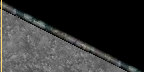
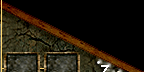
new B4-skin

diff --git a/client/src/interface.c b/client/src/interface.c
@@ -1469,7 +1469,7 @@ void show_interface_npc(int mark)
     int x=gui_interface_npc->startx, y=gui_interface_npc->starty, numButton=0,yoff, i;
 
     sprite_blt(Bitmaps[BITMAP_NPC_INTERFACE], x, y, NULL, NULL);
-    add_close_button(x-113, y+4, MENU_NPC);
+    add_close_button(x-111, y+9, MENU_NPC);
 
     if (gui_interface_npc->used_flag&GUI_INTERFACE_HEAD)
     {
@@ -1477,14 +1477,14 @@ void show_interface_npc(int mark)
         /*sprintf(xxbuf, "%s (%d,%d)", keyword?keyword:"--", mx, my);
         StringBlt(ScreenSurface,&MediumFont , xxbuf, x+75, y+48, COLOR_WHITE, NULL, NULL);
         */
-        StringBlt(ScreenSurface,&MediumFont , gui_interface_npc->head.body_text, x+75, y+48, COLOR_WHITE, NULL, NULL);
+        StringBlt(ScreenSurface,&MediumFont , gui_interface_npc->head.body_text, x+80, y+50, COLOR_WHITE, NULL, NULL);
 
         if (gui_interface_npc->head.face>=0 && FaceList[gui_interface_npc->head.face].sprite != NULL)
         {
             int xp, yp;
 
-            box.x=x+4;
-            box.y=y+4;
+            box.x=x+8;
+            box.y=y+8;
             box.w=54;
             box.h=54;
 
@@ -1520,7 +1520,7 @@ void show_interface_npc(int mark)
     box.h=INTERFACE_WINLEN_NPC;
 
     blt_window_slider(Bitmaps[BITMAP_NPC_INT_SLIDER], gui_interface_npc->win_length, INTERFACE_WINLEN_NPC,
-                      gui_interface_npc->yoff*-1, -1, x + 340, y + 90);
+                      gui_interface_npc->yoff*-1, -1, x + 345, y + 94);
 
     SDL_SetClipRect(ScreenSurface, &box);
     /*SDL_FillRect(ScreenSurface, &box, 3);*/
@@ -1793,7 +1793,7 @@ void show_interface_npc(int mark)
     if (gui_interface_npc->used_flag&GUI_INTERFACE_ACCEPT)
     {
 
-        if (add_button(x + 35, y + 443, numButton++, BITMAP_DIALOG_BUTTON_UP,
+        if (add_button(x + 35, y + 448, numButton++, BITMAP_DIALOG_BUTTON_UP,
                        gui_interface_npc->accept.title, gui_interface_npc->accept.title2))
         {
             int ekey=-1;
@@ -1895,7 +1895,7 @@ void show_interface_npc(int mark)
 
         if (gui_interface_npc->used_flag&GUI_INTERFACE_DECLINE)
         {
-            if (add_button(x + 285, y + 443, numButton++, BITMAP_DIALOG_BUTTON_UP,
+            if (add_button(x + 285, y + 448, numButton++, BITMAP_DIALOG_BUTTON_UP,
                            gui_interface_npc->decline.title, gui_interface_npc->decline.title2))
             {
                 int ekey=-1;
@@ -1992,18 +1992,18 @@ void show_interface_npc(int mark)
     if (gui_interface_npc->who.body[0] != 'Q')
     {
         box.x = x + 95;
-        box.y = y+449;
+        box.y = y+453;
         box.h = 12;
         box.w = 180;
         if (gui_interface_npc->input_flag)
         {
-            StringBlt(ScreenSurface, &SystemFont, "~Return~ to send, ~ESC~ to cancel", x+130, y+437, COLOR_WHITE, NULL, NULL);
+            StringBlt(ScreenSurface, &SystemFont, "~Return~ to send, ~ESC~ to cancel", x+119, y+441, COLOR_WHITE, NULL, NULL);
             SDL_FillRect(ScreenSurface, &box, 0);
             StringBlt(ScreenSurface, &MediumFont, show_input_string(InputString, &MediumFont,box.w-10),box.x+5 ,box.y, COLOR_WHITE, NULL, NULL);
         }
         else
         {
-            StringBlt(ScreenSurface, &SystemFont, "~Return~ to talk", x+155, y+437, COLOR_WHITE, NULL, NULL);
+            StringBlt(ScreenSurface, &SystemFont, "~Return~ to talk", x+155, y+441, COLOR_WHITE, NULL, NULL);
 
             if (gui_interface_npc->link_selected)
             {
@@ -2076,14 +2076,14 @@ void gui_interface_mouse(SDL_Event *e)
     mx = mxr-gui_interface_npc->startx;
     my = myr-gui_interface_npc->starty;
 
-    if (mx >= 345 && mx <= 354 && my >=32 && my <= 41) // close button
+    if (mx >= 349 && mx <= 358 && my >=36 && my <= 45) // close button
     {
         sound_play_effect(SOUND_SCROLL, 0, 0, 100);
         reset_gui_interface();
     }
-    else if (mx >= 339 && mx <= 350) // scroll buttons
+    else if (mx >= 344 && mx <= 355) // scroll buttons
     {
-        if (my >=73 && my <= 84) // scroll up
+        if (my >=79 && my <= 90) // scroll up
         {
             gui_interface_npc->yoff +=12;
             if (gui_interface_npc->yoff < INTERFACE_WINLEN_NPC-gui_interface_npc->win_length)
@@ -2095,7 +2095,7 @@ void gui_interface_mouse(SDL_Event *e)
                 gui_interface_npc->yoff=0;
             }
         }
-        else if (my >=428 && my <= 437) // scroll down
+        else if (my >=432 && my <= 441) // scroll down
         {
             gui_interface_npc->yoff -=12;
             if (gui_interface_npc->yoff < INTERFACE_WINLEN_NPC-gui_interface_npc->win_length)
@@ -2109,7 +2109,7 @@ void gui_interface_mouse(SDL_Event *e)
         }
         return;
     }
-    else if (mx >= 95 && mx <= 275 && my >= 449 && my <= 461) // textfield
+    else if (mx >= 95 && mx <= 275 && my >= 453 && my <= 465) // textfield
     {
         if (!gui_interface_npc->input_flag)
             check_menu_keys(MENU_NPC, SDLK_RETURN);

diff --git a/client/src/dialog.c b/client/src/dialog.c
@@ -251,17 +251,14 @@ char * get_value(void *value, int type)
 void add_close_button(int x, int y, int menu)
 {
     int mx, my, mb;
-
     mb = SDL_GetMouseState(&mx, &my) & SDL_BUTTON(SDL_BUTTON_LEFT);
-    StringBlt(ScreenSurface, &SystemFont, "X", x + 463, y + 28, COLOR_BLACK, NULL, NULL);
-    if (mx > x + 459 && mx <x + 469 && my> y + 27 && my < y + 39)
+    if (mx > x + 460 && mx <x + 474 && my> y + 26 && my < y + 40)
     {
-        StringBlt(ScreenSurface, &SystemFont, "X", x + 462, y + 27, COLOR_HGOLD, NULL, NULL);
+        sprite_blt(Bitmaps[BITMAP_CLOSEBUTTON], x+463, y+28, NULL,NULL);
         if (mb && mb_clicked)
             check_menu_keys(menu, SDLK_ESCAPE);
     }
-    else
-        StringBlt(ScreenSurface, &SystemFont, "X", x + 462, y + 27, COLOR_WHITE, NULL, NULL);
+
 }
 
 /******************************************************************
@@ -419,7 +416,7 @@ int add_rangebox(int x, int y, int id, int text_w, int text_x, char *text, int c
     box.y = y + 1;
     box.w = text_w + 2;
     box.h = 16;
-    SDL_FillRect(ScreenSurface, &box, sdl_gray1);
+    SDL_FillRect(ScreenSurface, &box, 0);
     StringBlt(ScreenSurface, &SystemFont, text, text_x + 1, y + 3, COLOR_BLACK, NULL, NULL);
     StringBlt(ScreenSurface, &SystemFont, text, text_x, y + 2, color, NULL, NULL);
 
@@ -808,9 +805,9 @@ void show_skilllist(void)
         if (i != skill_list_set.entry_nr)
         {
             if (i & 1)
-                SDL_FillRect(ScreenSurface, &box, sdl_gray2);
+                SDL_FillRect(ScreenSurface, &box, SDL_MapRGB(ScreenSurface->format, 67, 57, 30));
             else
-                SDL_FillRect(ScreenSurface, &box, sdl_gray1);
+                SDL_FillRect(ScreenSurface, &box, SDL_MapRGB(ScreenSurface->format, 57, 59, 39));
         }
         else
             SDL_FillRect(ScreenSurface, &box, sdl_blue1);
@@ -966,9 +963,9 @@ void show_spelllist(void)
         if (i != spell_list_set.entry_nr)
         {
             if (i & 1)
-                SDL_FillRect(ScreenSurface, &box, sdl_gray2);
+                SDL_FillRect(ScreenSurface, &box, SDL_MapRGB(ScreenSurface->format, 67, 57, 30));
             else
-                SDL_FillRect(ScreenSurface, &box, sdl_gray1);
+                SDL_FillRect(ScreenSurface, &box, SDL_MapRGB(ScreenSurface->format, 57, 59, 39));
         }
         else
             SDL_FillRect(ScreenSurface, &box, sdl_blue1);
@@ -1159,9 +1156,9 @@ void show_keybind()
         if (i != bindkey_list_set.entry_nr)
         {
             if (i & 1)
-                SDL_FillRect(ScreenSurface, &box, sdl_gray2);
+                SDL_FillRect(ScreenSurface, &box, SDL_MapRGB(ScreenSurface->format, 67, 57, 30));
             else
-                SDL_FillRect(ScreenSurface, &box, sdl_gray1);
+                SDL_FillRect(ScreenSurface, &box, SDL_MapRGB(ScreenSurface->format, 57, 59, 39));
         }
         else
             SDL_FillRect(ScreenSurface, &box, sdl_blue1);
@@ -1573,10 +1570,10 @@ void show_login_server(void)
     StringBlt(ScreenSurface, &BigFont, buf, t + 1, y - 21, COLOR_BLACK, NULL, NULL);
     StringBlt(ScreenSurface, &BigFont, buf, t, y - 22, COLOR_HGOLD, NULL, NULL);
 
-    SDL_FillRect(ScreenSurface, &box, sdl_gray3);
+    SDL_FillRect(ScreenSurface, &box, SDL_MapRGB(ScreenSurface->format, 67, 57, 30));
     box.y = y + 15;
     box.h = 150;
-    SDL_FillRect(ScreenSurface, &box, sdl_gray4);
+    SDL_FillRect(ScreenSurface, &box, SDL_MapRGB(ScreenSurface->format, 57, 59, 39));
     StringBlt(ScreenSurface, &SystemFont, "- UPDATING FILES- ", x + 58, y + 1, COLOR_BLACK, NULL, NULL);
     StringBlt(ScreenSurface, &SystemFont, "- UPDATING FILES -", x + 57, y, COLOR_WHITE, NULL, NULL);
     if (request_file_chain >= 0)
@@ -1879,9 +1876,9 @@ void show_meta_server(_server *node, int metaserver_start, int metaserver_sel)
     {
         box.y += 12;
         if (i & 1)
-            SDL_FillRect(ScreenSurface, &box, sdl_gray2);
+            SDL_FillRect(ScreenSurface, &box, SDL_MapRGB(ScreenSurface->format, 67, 57, 30));
         else
-            SDL_FillRect(ScreenSurface, &box, sdl_gray1);
+            SDL_FillRect(ScreenSurface, &box, SDL_MapRGB(ScreenSurface->format, 57, 59, 39));
     }
 
     for (i = 0; node && i < metaserver_start; i++)

diff --git a/client/src/main.c b/client/src/main.c
@@ -143,7 +143,7 @@ static _bitmap_name bitmap_name[BITMAP_INIT]    =
         {"food_back.png", PIC_TYPE_DEFAULT}, {"apply.png", PIC_TYPE_DEFAULT},
         {"food2.png", PIC_TYPE_TRANS},
         {"unpaid.png", PIC_TYPE_DEFAULT}, {"cursed.png", PIC_TYPE_DEFAULT}, {"damned.png", PIC_TYPE_DEFAULT},
-        {"lock.png", PIC_TYPE_DEFAULT}, {"magic.png", PIC_TYPE_DEFAULT}, {"range.png", PIC_TYPE_TRANS},
+        {"lock.png", PIC_TYPE_DEFAULT}, {"magic.png", PIC_TYPE_DEFAULT},
         {"range_marker.png", PIC_TYPE_TRANS}, {"range_ctrl.png", PIC_TYPE_TRANS}, {"range_ctrl_no.png", PIC_TYPE_TRANS},
         {"range_skill.png", PIC_TYPE_TRANS}, {"range_skill_no.png", PIC_TYPE_TRANS}, {"range_throw.png", PIC_TYPE_TRANS},
         {"range_throw_no.png", PIC_TYPE_TRANS}, {"range_tool.png", PIC_TYPE_TRANS}, {"range_tool_no.png", PIC_TYPE_TRANS},
@@ -184,14 +184,14 @@ static _bitmap_name bitmap_name[BITMAP_INIT]    =
         {"options_mark_right.png", PIC_TYPE_TRANS}, {"options_alpha.png", PIC_TYPE_DEFAULT},
         {"pentagram.png", PIC_TYPE_DEFAULT}, {"quad_button_up.png", PIC_TYPE_DEFAULT},
         {"quad_button_down.png", PIC_TYPE_DEFAULT}, {"nchar_marker.png", PIC_TYPE_TRANS}, {"traped.png", PIC_TYPE_TRANS},
-        {"pray.png", PIC_TYPE_TRANS}, {"wand.png", PIC_TYPE_TRANS}, {"invite.png", PIC_TYPE_DEFAULT},
+        {"wand.png", PIC_TYPE_TRANS}, {"invite.png", PIC_TYPE_DEFAULT},
         {"dialog_button_black_up.png", PIC_TYPE_DEFAULT},{"dialog_button_black_down.png", PIC_TYPE_DEFAULT},
         {"button_small_up.png", PIC_TYPE_DEFAULT},{"button_small_down.png", PIC_TYPE_DEFAULT},
         {"group_mana.png", PIC_TYPE_DEFAULT},{"group_grace.png", PIC_TYPE_DEFAULT},
         {"group_hp.png", PIC_TYPE_DEFAULT}, {"npc_interface.png", PIC_TYPE_TRANS},{"coin_copper.png", PIC_TYPE_TRANS},
         {"coin_silver.png", PIC_TYPE_TRANS},{"coin_gold.png", PIC_TYPE_TRANS},
         {"coin_mithril.png", PIC_TYPE_TRANS},{"npc_int_slider.png", PIC_TYPE_DEFAULT},
-        {"journal.png", PIC_TYPE_TRANS}, {"invslot_marked.png", PIC_TYPE_TRANS},
+        {"journal.png", PIC_TYPE_TRANS}, {"invslot_marked.png", PIC_TYPE_TRANS}, {"closeb.png", PIC_TYPE_DEFAULT},
     };
 
 #define BITMAP_MAX (sizeof(bitmap_name)/sizeof(struct _bitmap_name))
@@ -1535,7 +1535,6 @@ int main(int argc, char *argv[])
                     show_media(798, 171);
                 }
                 show_range(3, 403);
-                sprite_blt(Bitmaps[BITMAP_PRAY], 92, 412, NULL, NULL);
 
                 if (esc_menu_flag == TRUE
                         || (options.use_TextwinAlpha && (txtwin[TW_MSG].size + txtwin[TW_CHAT].size) > 9))
@@ -1641,7 +1640,7 @@ int main(int argc, char *argv[])
 
         if (show_help_screen_new && GameStatus == GAME_STATUS_PLAY)
         {
-            sprite_blt(Bitmaps[BITMAP_HELP_START] , 799-Bitmaps[BITMAP_HELP_START]->bitmap->w , 0, NULL, NULL);
+            sprite_blt(Bitmaps[BITMAP_HELP_START] , 799-Bitmaps[BITMAP_HELP_START]->bitmap->w-5 , 0, NULL, NULL);
         }
         /* show all kind of the big dialog windows */
         show_menu();

diff --git a/client/src/inventory.c b/client/src/inventory.c
@@ -151,7 +151,7 @@ void show_inventory_window(int x, int y)
     invylen = INVITEMYLEN;
 
 
-    sprite_blt(Bitmaps[BITMAP_INVENTORY], x, y, NULL, NULL);
+    sprite_blt(Bitmaps[BITMAP_INVENTORY], x-6, y-7, NULL, NULL);
 
     y += 26;
     blt_window_slider(Bitmaps[BITMAP_INV_SCROLL], ((cpl.win_inv_count - 1) / invxlen) + 1, invylen,
@@ -498,7 +498,7 @@ void examine_range_inv(void)
 
     for (tmp = op->inv; tmp; tmp = tmp->next)
     {
-        if (tmp->applied && (tmp->itype == TYPE_BOW || (tmp->itype == TYPE_ARROW && tmp->stype >= 128) 
+        if (tmp->applied && (tmp->itype == TYPE_BOW || (tmp->itype == TYPE_ARROW && tmp->stype >= 128)
 			|| tmp->itype == TYPE_WAND || tmp->itype == TYPE_ROD || tmp->itype == TYPE_HORN))
             fire_mode_tab[FIRE_MODE_BOW].item = tmp->tag;
 		else if(tmp->applied && tmp->itype == TYPE_ARROW && tmp->stype < 128)

diff --git a/client/src/group.c b/client/src/group.c
@@ -98,7 +98,7 @@ void show_group(int x, int y)
             /* sprite_blt(Bitmaps[BITMAP_GROUP], x + group_pos[s][0] + 2, y + group_pos[s][1] + 1, NULL, NULL); */
             if (group[s].name[0] != '\0')
             {
-                sprite_blt(Bitmaps[BITMAP_GROUP], x + group_pos[s][0] + 2, y + group_pos[s][1] + 1, NULL, NULL);
+//                sprite_blt(Bitmaps[BITMAP_GROUP], x + group_pos[s][0] + 2, y + group_pos[s][1] + 1, NULL, NULL);
                 StringBlt(ScreenSurface, &SystemFont, group[s].name, x + group_pos[s][0] + 33, y + group_pos[s][1] + 1,COLOR_DEFAULT, NULL, NULL);
                 sprintf(buf, "%3d", group[s].level);
                 StringBlt(ScreenSurface, &Font6x3Out, buf, x + group_pos[s][0] + 8, y + group_pos[s][1], COLOR_DEFAULT, NULL, NULL);

diff --git a/client/src/include/main.h b/client/src/include/main.h
@@ -495,7 +495,6 @@ typedef enum _bitmap_index
     BITMAP_DAMNED,
     BITMAP_LOCK,
     BITMAP_MAGIC,
-    BITMAP_RANGE,
     BITMAP_RANGE_MARKER,
     BITMAP_RANGE_CTRL,
     BITMAP_RANGE_CTRL_NO,
@@ -600,7 +599,6 @@ typedef enum _bitmap_index
     BITMAP_BUTTONQ_DOWN,
     BITMAP_NCHAR_MARKER,
     BITMAP_TRAPED,
-    BITMAP_PRAY,
     BITMAP_WAND,
     BITMAP_GROUP_INVITE,
     BITMAP_BUTTON_BLACK_UP,
@@ -618,6 +616,7 @@ typedef enum _bitmap_index
     BITMAP_NPC_INT_SLIDER,
     BITMAP_JOURNAL,
     BITMAP_INVSLOT_MARKED,
+    BITMAP_CLOSEBUTTON,
     BITMAP_INIT
 }
 _bitmap_index;

diff --git a/client/src/event.c b/client/src/event.c
@@ -543,7 +543,7 @@ int Event_PollInputDevice(void)
                     break;
                 }
                 /* IWIN_INV Slider */
-                else if (active_scrollbar == 2 || (cpl.menustatus == MENU_NPC && y >= 136 && y <=474 && x>=561 && x <= 568))
+                else if (active_scrollbar == 2 || (cpl.menustatus == MENU_NPC && y >= 140 && y <=478 && x>=566 && x <= 573))
                 {
                     active_scrollbar = 2;
 

diff --git a/client/src/menu.c b/client/src/menu.c
@@ -522,7 +522,7 @@ void show_range(int x, int y)
     rec_item.w = 185;
     examine_range_inv();
 
-    sprite_blt(Bitmaps[BITMAP_RANGE], x - 2, y, NULL, NULL);
+//    sprite_blt(Bitmaps[BITMAP_RANGE], x - 2, y, NULL, NULL);
 
     switch (RangeFireMode)
     {
